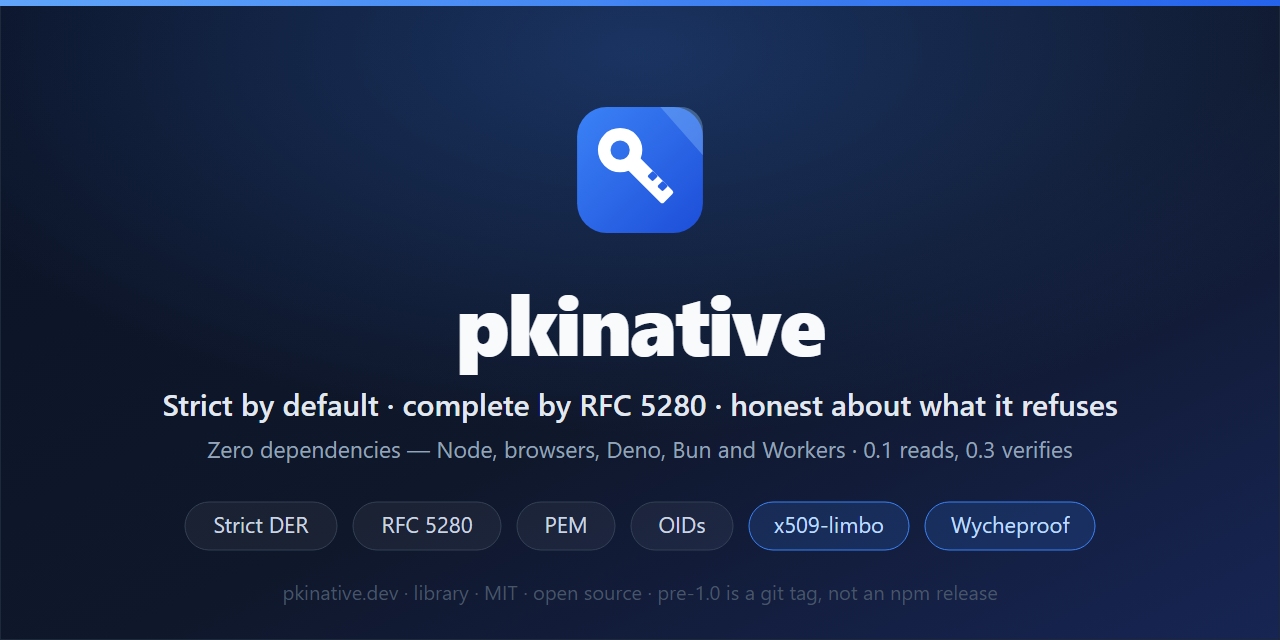
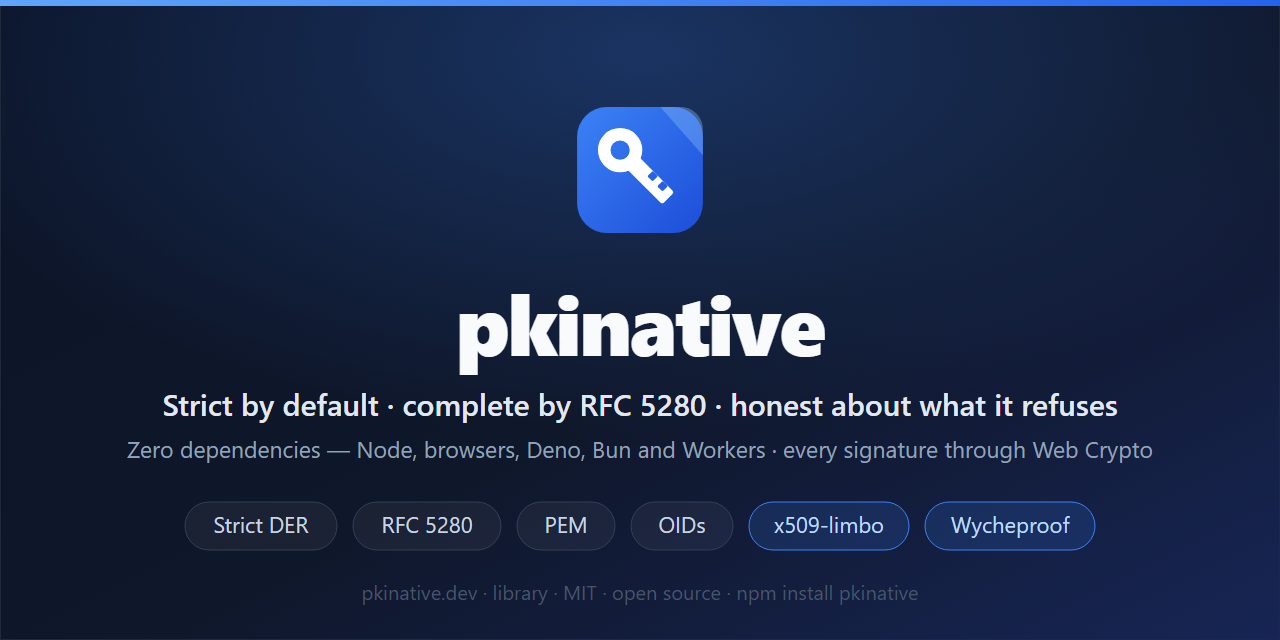
chore(release): 1.0.0
The bump, applied by release-prepare: versions and dates; every sentence
that said pkinative is not on npm swapped for its reviewed stable-era text
(PRE_1_0_PROSE); the three snapshots of the compatibility promise rebased
at the major (api.frozen.json and refusals.frozen.json become stable,
errors.frozen.json ratchets). The social card and preview drop the stale
"0.1 reads, 0.3 verifies" and are re-rasterised with headless Edge, their
SVG hashes recorded.

Changed region(s): [[0.0938, 0.6875, 0.9062, 0.7188], [0.2188, 0.9062, 0.7812, 0.9375]]

diff --git a/docs/guides/quickstart.html b/docs/guides/quickstart.html
@@ -4,7 +4,7 @@
   <meta charset="UTF-8">
   <meta name="viewport" content="width=device-width, initial-scale=1.0">
   <title>Quick start — pkinative</title>
-  <meta name="description" content="Read a certificate in three calls, then learn the four things every pkinative call shares: strict DER, typed errors, diagnostics and limits. Everything below runs on pkinative 0.9 as it is tested; every export named here is in docs/assets/api.json.">
+  <meta name="description" content="Read a certificate in three calls, then learn the four things every pkinative call shares: strict DER, typed errors, diagnostics and limits. Everything below runs on pkinative 1.0 as it is tested; every export named here is in docs/assets/api.json.">
   <meta name="robots" content="index, follow">
   <meta name="theme-color" content="#2563eb">
   <meta property="og:type" content="article">
@@ -12,13 +12,13 @@
   <meta property="og:locale" content="en_US">
   <meta property="og:url" content="https://pkinative.dev/guides/quickstart.html">
   <meta property="og:title" content="Quick start — pkinative">
-  <meta property="og:description" content="Read a certificate in three calls, then learn the four things every pkinative call shares: strict DER, typed errors, diagnostics and limits. Everything below runs on pkinative 0.9 as it is tested; every export named here is in docs/assets/api.json.">
+  <meta property="og:description" content="Read a certificate in three calls, then learn the four things every pkinative call shares: strict DER, typed errors, diagnostics and limits. Everything below runs on pkinative 1.0 as it is tested; every export named here is in docs/assets/api.json.">
   <meta property="og:image" content="https://pkinative.dev/assets/og-image.png">
   <meta property="og:image:width" content="1200">
   <meta property="og:image:height" content="630">
   <meta name="twitter:card" content="summary_large_image">
   <meta name="twitter:title" content="Quick start — pkinative">
-  <meta name="twitter:description" content="Read a certificate in three calls, then learn the four things every pkinative call shares: strict DER, typed errors, diagnostics and limits. Everything below runs on pkinative 0.9 as it is tested; every export named here is in docs/assets/api.json.">
+  <meta name="twitter:description" content="Read a certificate in three calls, then learn the four things every pkinative call shares: strict DER, typed errors, diagnostics and limits. Everything below runs on pkinative 1.0 as it is tested; every export named here is in docs/assets/api.json.">
   <meta name="twitter:image" content="https://pkinative.dev/assets/og-image.png">
   <link rel="canonical" href="https://pkinative.dev/guides/quickstart.html">
   <link rel="alternate" hreflang="en" href="https://pkinative.dev/guides/quickstart.html">
@@ -55,13 +55,13 @@
     <article id="guide-content" class="guide-content" data-md="quickstart.md" data-prerendered="true">
       <h1 id="quick-start">Quick start</h1>
       <blockquote>
-      <p><strong>Read a certificate in three calls, then learn the four things every pkinative call shares: strict DER, typed errors, diagnostics and limits.</strong> Everything below runs on pkinative 0.9 as it is tested; every export named here is in <code>docs/assets/api.json</code>.</p>
+      <p><strong>Read a certificate in three calls, then learn the four things every pkinative call shares: strict DER, typed errors, diagnostics and limits.</strong> Everything below runs on pkinative 1.0 as it is tested; every export named here is in <code>docs/assets/api.json</code>.</p>
       </blockquote>
       <h2 id="install">Install <a class="heading-anchor" href="#install" aria-label="Link to this section">#</a></h2>
-      <p>pkinative 0.9 is not on npm: install the tarball attached to the GitHub release, which a workflow builds, gates, installs as a test and attests:</p>
-      <pre><code class="language-bash">npm install https://github.com/Nizoka/pkinative/releases/download/v0.9.0/pkinative-0.9.0.tgz
+      <p>pkinative is on npm, published with provenance from the tagged commit after the full gate:</p>
+      <pre><code class="language-bash">npm install pkinative
       </code></pre>
-      <p><code>gh attestation verify pkinative-0.9.0.tgz --repo Nizoka/pkinative</code> checks where the tarball was built. Node.js ≥ 22, browsers, Deno, Bun and Workers load the same build. There is no runtime dependency.</p>
+      <p><code>npm audit signatures</code> verifies the registry signature and the provenance of what you installed. Every GitHub release also carries the tarball, attested with Sigstore build provenance: <code>npm install https://github.com/Nizoka/pkinative/releases/download/v1.0.0/pkinative-1.0.0.tgz</code>, and <code>gh attestation verify pkinative-1.0.0.tgz --repo Nizoka/pkinative</code> checks where it was built. Node.js ≥ 22, browsers, Deno, Bun and Workers load the same build. There is no runtime dependency.</p>
       <h2 id="read-a-certificate">Read a certificate <a class="heading-anchor" href="#read-a-certificate" aria-label="Link to this section">#</a></h2>
       <p>A certificate usually arrives as PEM text. <code>decodePem</code> returns its blocks, and the <code>label</code> option refuses any block that is not a certificate — a private key pasted into the same file is an error, not a certificate:</p>
       <pre><code class="language-ts">import { decodePem, formatDistinguishedName, getExtension, parseCertificate } from &#39;pkinative&#39;;

diff --git a/docs/guides/index.html b/docs/guides/index.html
@@ -55,7 +55,7 @@
       <h1 id="guides">Guides</h1>
       <p>Each guide is also plain Markdown for agents: replace <code>.html</code> with <code>.md</code>, or read them all in <a href="../llms-full.txt">llms-full.txt</a>.</p>
       <ul class="guide-toc-list">
-        <li><a href="quickstart.html">Quick start</a><span class="guide-toc-desc">Read a certificate in three calls, then learn the four things every pkinative call shares: strict DER, typed errors, diagnostics and limits. Everything below runs on pkinative 0.9 as it is tested; every export named here is in docs/assets/api.json.</span></li>
+        <li><a href="quickstart.html">Quick start</a><span class="guide-toc-desc">Read a certificate in three calls, then learn the four things every pkinative call shares: strict DER, typed errors, diagnostics and limits. Everything below runs on pkinative 1.0 as it is tested; every export named here is in docs/assets/api.json.</span></li>
         <li><a href="use-cases.html">Use cases</a><span class="guide-toc-desc">The jobs pkinative does today, with the code that does them and the guarantee behind each. Four need no signature at all; the rest check and write signatures, validate chains, ask about revocation, sign, verify and timestamp CMS messages, and open the PKCS#8 keys and PKCS#12 files that sign them.</span></li>
         <li><a href="security.html">Security model</a><span class="guide-toc-desc">Every certificate, PEM text and DER blob pkinative reads is treated as attacker-controlled. This guide explains what that means in practice: strict decoding, bounded resources, typed failures, and a hard line around cryptography.</span></li>
         <li><a href="conformance.html">Conformance</a><span class="guide-toc-desc">pkinative is held to corpora it did not write and to parsers it does not share code with. A blocking gate runs the built package over x509-limbo and Wycheproof, pinned by commit and SHA-256, and checks every answer against OpenSSL.</span></li>

diff --git a/docs/index.html b/docs/index.html
@@ -66,7 +66,7 @@
         "isAccessibleForFree": true,
         "offers": { "@type": "Offer", "price": "0", "priceCurrency": "USD" },
         "author": { "@id": "https://pkinative.dev/#org" },
-        "softwareVersion": "0.9.0",
+        "softwareVersion": "1.0.0",
         "description": "Zero-dependency TypeScript toolkit for public-key infrastructure data: strict ASN.1 DER, RFC 7468 PEM, OIDs and complete RFC 5280 X.509 certificate parsing."
       }
     ]
@@ -112,10 +112,10 @@
         <img src="https://img.shields.io/badge/TypeScript-strict-2563eb" alt="TypeScript strict" height="20" loading="lazy">
       </div>
       <div class="install-cmd">
-        <code>npm install https://github.com/Nizoka/pkinative/releases/download/v0.9.0/pkinative-0.9.0.tgz</code>
-        <button class="copy-btn" type="button" data-copy="npm install https://github.com/Nizoka/pkinative/releases/download/v0.9.0/pkinative-0.9.0.tgz" aria-label="Copy the install command">⧉</button>
+        <code>npm install pkinative</code>
+        <button class="copy-btn" type="button" data-copy="npm install pkinative" aria-label="Copy the install command">⧉</button>
       </div>
-      <p class="hero-note">Pre-1.0 is a git tag, not an npm release. It reads, builds and validates certificates, paths, CMS signatures and PKCS#12, with Web Crypto doing every signature.</p>
+      <p class="hero-note">On npm with provenance since 1.0.0, under semantic versioning: a minor release only adds.</p>
     </div>
   </section>
 

diff --git a/docs/playground/index.html b/docs/playground/index.html
@@ -52,7 +52,7 @@
     <p class="guide-breadcrumb"><a href="../">Home</a> › Playground</p>
     <h1>Playground</h1>
     <p>Everything below runs <strong>in your tab</strong>, on <code>pkinative.js</code> — a byte-for-byte copy of what <code>npm run build</code> produces, held to the build by the <code>playground-freshness</code> rule. There is no server, no upload and no telemetry: a certificate you paste never leaves the browser, which matters because the interesting ones are usually not public.</p>
-    <p>The siblings load their engine from a CDN. pkinative cannot — it is not on npm before 1.0.0 — so the copy is committed instead. That is the one place these playgrounds diverge from the family, and it is why they carry a freshness rule the siblings do not need.</p>
+    <p>The siblings load their engine from a CDN. pkinative commits its copy instead, so the playground runs the build of the tree this site is published from, not the last npm release. That is the one place these playgrounds diverge from the family, and it is why they carry a freshness rule the siblings do not need.</p>
 
     <div class="pg-grid">
       <a class="pg-card" href="certificate.html">

diff --git a/README.md b/README.md
@@ -9,7 +9,7 @@
 
 Zero runtime dependencies. 100% TypeScript. One API across Node.js ≥ 22, browsers, Deno, Bun and Workers. The third library of the *native* family, under the engineering doctrine of [pdfnative](https://github.com/Nizoka/pdfnative) and [zipnative](https://github.com/Nizoka/zipnative).
 
-> **Status: 0.9 — pre-1.0, not on npm.** Versions below 1.0.0 are git tags with an attested release tarball, and the first npm publication is 1.0.0 ([ROADMAP.md](ROADMAP.md)). It reads, builds and validates — certificates, paths with revocation, CMS signatures and timestamps, PKCS#8 and PKCS#12 — with Web Crypto doing every signature.
+> **Status: 1.0 — stable, on npm.** From 1.0.0 the public API, the error codes and the reason codes follow semantic versioning: a minor release only adds, and a removal or an incompatible change waits for the next major ([ROADMAP.md](ROADMAP.md)). Versions below 1.0.0 are git tags only — source snapshots of each milestone, never released on GitHub or npm.
 
 ## Why pkinative?
 
@@ -29,7 +29,7 @@ Registry facts only, read on 2026-09-19 ([docs/data/comparison-2026-09-19.json](
 
 | Library | Latest | Runtime dependencies | Types bundled | ES modules | Scope |
 |---|---|---|---|---|---|
-| **pkinative** | pre-1.0 (git tag) | **0** | yes | yes | ASN.1, PEM, OIDs, X.509, path validation with CRL and OCSP, CMS and RFC 3161, PKCS#8 and PKCS#12 under PBES2; every signature through Web Crypto |
+| **pkinative** | 1.0 (npm) | **0** | yes | yes | ASN.1, PEM, OIDs, X.509, path validation with CRL and OCSP, CMS and RFC 3161, PKCS#8 and PKCS#12 under PBES2; every signature through Web Crypto |
 | node-forge | 1.4.0 | 0 | no | no | Broad: ASN.1, X.509, TLS, its own RSA and ciphers in JavaScript |
 | asn1js | 3.0.10 | 3 | yes | yes | ASN.1 BER/DER codec |
 | @peculiar/x509 | 2.1.0 | 11 | yes | yes | X.509 over Web Crypto, on the @peculiar/asn1 schema stack |
@@ -41,11 +41,18 @@ Choose pkinative for strict, dependency-free PKI with every refusal explained by
 
 ## Installation
 
-pkinative 0.9 is not on npm. Install the tarball attached to the GitHub release — built from the tag, run through the full gate, installed as a test and attested with Sigstore build provenance by [release-assets.yml](.github/workflows/release-assets.yml):
+pkinative is on npm, published by [publish.yml](.github/workflows/publish.yml) from the tagged commit, after the full gate, with npm provenance:
 
 ```bash
-npm install https://github.com/Nizoka/pkinative/releases/download/v0.9.0/pkinative-0.9.0.tgz
-gh attestation verify pkinative-0.9.0.tgz --repo Nizoka/pkinative   # optional: check where it was built
+npm install pkinative
+npm audit signatures   # optional: verify the registry signatures and provenance of what you installed
+```
+
+Every GitHub release also carries that same tarball, fetched back from the registry, and a CycloneDX SBOM, both attested with Sigstore build provenance:
+
+```bash
+npm install https://github.com/Nizoka/pkinative/releases/download/v1.0.0/pkinative-1.0.0.tgz
+gh attestation verify pkinative-1.0.0.tgz --repo Nizoka/pkinative   # optional: check where it was built
 ```
 
 A plain git install (`github:Nizoka/pkinative#v0.1.0`) does not work: `dist/` is not committed. Node.js ≥ 22, current browsers, Deno, Bun and Cloudflare Workers run the same build; the package has `browser`, `import` and `require` conditions and no runtime dependency.

diff --git a/docs/guides/quickstart.md b/docs/guides/quickstart.md
@@ -1,16 +1,16 @@
 # Quick start
 
-> **Read a certificate in three calls, then learn the four things every pkinative call shares: strict DER, typed errors, diagnostics and limits.** Everything below runs on pkinative 0.9 as it is tested; every export named here is in `docs/assets/api.json`.
+> **Read a certificate in three calls, then learn the four things every pkinative call shares: strict DER, typed errors, diagnostics and limits.** Everything below runs on pkinative 1.0 as it is tested; every export named here is in `docs/assets/api.json`.
 
 ## Install
 
-pkinative 0.9 is not on npm: install the tarball attached to the GitHub release, which a workflow builds, gates, installs as a test and attests:
+pkinative is on npm, published with provenance from the tagged commit after the full gate:
 
 ```bash
-npm install https://github.com/Nizoka/pkinative/releases/download/v0.9.0/pkinative-0.9.0.tgz
+npm install pkinative
 ```
 
-`gh attestation verify pkinative-0.9.0.tgz --repo Nizoka/pkinative` checks where the tarball was built. Node.js ≥ 22, browsers, Deno, Bun and Workers load the same build. There is no runtime dependency.
+`npm audit signatures` verifies the registry signature and the provenance of what you installed. Every GitHub release also carries the tarball, attested with Sigstore build provenance: `npm install https://github.com/Nizoka/pkinative/releases/download/v1.0.0/pkinative-1.0.0.tgz`, and `gh attestation verify pkinative-1.0.0.tgz --repo Nizoka/pkinative` checks where it was built. Node.js ≥ 22, browsers, Deno, Bun and Workers load the same build. There is no runtime dependency.
 
 ## Read a certificate
 

diff --git a/docs/agent-brief.md b/docs/agent-brief.md
@@ -59,4 +59,4 @@ Profile concerns (a long serial, an explicit DEFAULT, a non-critical name constr
 - Do not write RSA, ECDSA or other secret-dependent cryptography in TypeScript around it; use Web Crypto. pkinative generates and exports no key: `createCertificate` takes a SubjectPublicKeyInfo in DER and a private `CryptoKey` it only hands to `subtle.sign`, so the one `crypto.subtle.exportKey('spki', …)` call is yours to write.
 - Do not raise a limit (`options.limits`) for untrusted input.
 - Do not report `verifySignerInfoSignature`'s `true` as the verdict on a message: it checks one key against the signed attributes, and reads no content digest, no signer identifier and no chain. `verifySignedData` is the verdict.
-- Do not install pkinative from npm or from a git URL (a git install carries no `dist/`): 0.9 is the release tarball, `npm install https://github.com/Nizoka/pkinative/releases/download/v0.9.0/pkinative-0.9.0.tgz`.
+- Do not install pkinative from a git URL (a git install carries no `dist/`): install it from npm, `npm install pkinative`; `npm audit signatures` verifies its registry signature and provenance.

diff --git a/SECURITY.md b/SECURITY.md
@@ -14,8 +14,10 @@ What counts as a vulnerability here: an input that makes pkinative accept an enc
 
 | Version | Supported |
 |---------|-----------|
-| 0.x (latest tag and its release tarball) | ✅ (pre-1.0: fixes land in the next tag) |
-| npm `0.0.1` (name reservation, when published) | ❌ contains no code |
+| the latest 1.x minor on npm | ✅ fixes land in its next patch or in the next minor |
+| any older 1.x minor | ❌ upgrade to the latest minor: under the compatibility promise below it breaks nothing |
+| 0.x (git tags only, never on npm) | ❌ |
+| npm `0.0.1` (name reservation, deprecated) | ❌ contains no code |
 
 ## Compatibility promise
 

diff --git a/CHANGELOG.md b/CHANGELOG.md
@@ -4,7 +4,7 @@ All notable changes to this project will be documented in this file.
 
 The format is based on [Keep a Changelog 1.1.0](https://keepachangelog.com/en/1.1.0/), and this project adheres to [Semantic Versioning 2.0.0](https://semver.org/spec/v2.0.0.html). Versions below 1.0.0 are git tags and are not published to npm.
 
-## [Unreleased]
+## [1.0.0] – 2026-09-29
 
 ### Added
 
